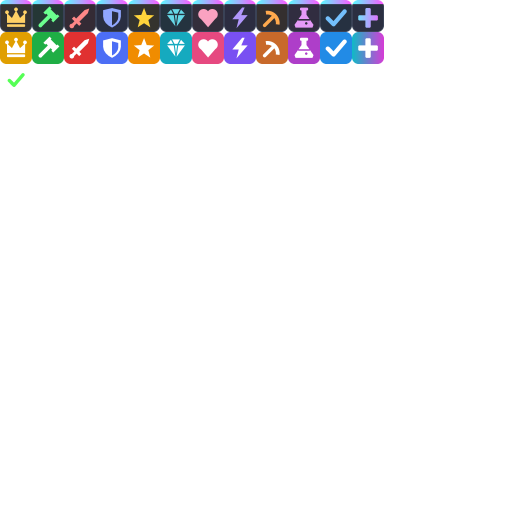
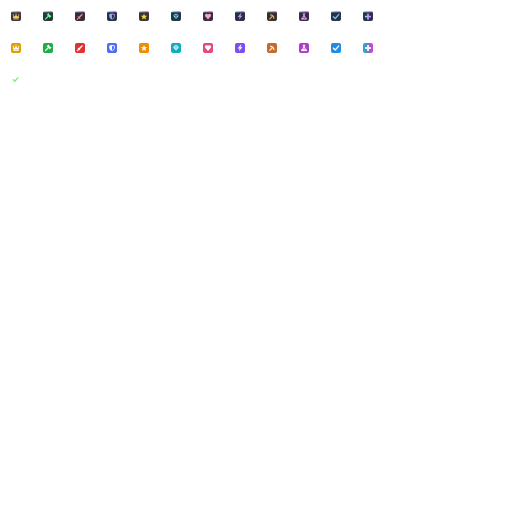
2.11.5 - badges and ticks drawn at text size, template cards fixed
The user's first in-game look at 2.11.4 showed every badge four chat
lines tall: the game draws a font-page picture at one of its pixels per
picture pixel, centred on the line, and never shrinks it. Badges are now
10 pixels centred in their 32-pixel cells, like the game's own icons, and
the tick about as tall as a capital. Card names end in a reset, because a
colour code doesn't end bold in Bedrock, and Owner's warning is short
enough to stay in its card. The badge preview now draws at real size.

Changed region(s): [[0.0, 0.0, 0.75, 0.1562], [0.0, 0.1562, 0.0312, 0.1875]]

diff --git a/tests/badges.test.js b/tests/badges.test.js
@@ -265,6 +265,31 @@ console.log("\n— the tick for template cards —")
     check("and is drawn", ink, true)
 }
 
+console.log("\n— drawn at text size —")
+{
+    // 2.11.5, from the user's screenshots: the game draws a glyph at one of its
+    // pixels per picture pixel, centred on the line, and never shrinks it. The
+    // 2.11.3 badges filled their 32-pixel cells and drew four lines tall. The
+    // game's own icons (page E0) are 9 to 23 pixels, centred in their cells.
+    const page = readAlpha(PAGE_FILE)
+    const drawn = (col, row) => {
+        let x0 = 99, y0 = 99, x1 = -1, y1 = -1
+        for (let y = 0; y < 32; y++) for (let x = 0; x < 32; x++) {
+            if (page.alpha(col * 32 + x, row * 32 + y) > 0) { x0 = Math.min(x0, x); y0 = Math.min(y0, y); x1 = Math.max(x1, x); y1 = Math.max(y1, y) }
+        }
+        return { w: x1 - x0 + 1, h: y1 - y0 + 1, cx: (x0 + x1 + 1) / 2, cy: (y0 + y1 + 1) / 2 }
+    }
+    const badges = BADGES.flatMap((b, i) => [drawn(i, 0), drawn(i, 1)])
+    check("every badge is at most 10 pixels each way, one chat line tall",
+        badges.filter(d => d.w > 10 || d.h > 10).length, 0)
+    check("and at least 8, so it can still be read", badges.filter(d => d.w < 8 || d.h < 8).length, 0)
+    check("each sits in the middle of its cell, as the game centres it on the line",
+        badges.filter(d => Math.abs(d.cx - 16) > 1 || Math.abs(d.cy - 16) > 1).length, 0)
+    const tick = drawn(0, 2)
+    check("the tick is no taller than a capital letter (7 pixels)", tick.h <= 7, true)
+    check("and in the middle too", Math.abs(tick.cy - 16) <= 1, true)
+}
+
 console.log("\n— the Badges page —")
 {
     const names = GROUPS.find(g => g.id === "names")

diff --git a/tests/ranksui.test.js b/tests/ranksui.test.js
@@ -168,6 +168,21 @@ console.log("\n— a staff rank from a template —")
     __ui.answers.push(name("§4Second", TYPE.staff), press(3), submit(above("coowner")), CREATE)
     await createRankScreen(boss, () => {})
     check("the Owner template gives everything", getRank("second")?.perms, ["*"])
+
+    // 2.11.5, from the user's screenshot of the cards in game: bold carried
+    // from each card's name into every line under it, and Owner's words ran
+    // out of the bottom of its card.
+    const BETA_ITEM = { id: "adminplus:channel_beta" }
+    __test.itemTypes.push(BETA_ITEM)
+    __ui.answers.length = 0
+    const at = __ui.shown.length
+    __ui.answers.push(name("§9Look", TYPE.staff))
+    await createRankScreen(boss, () => {})
+    const cards = partsOf(__ui.shown[at + 1], "button").slice(0, 4)
+    check("in Beta each card's name closes its bold, so the lines under it stay plain",
+        cards.map(c => c.split("\n")[0].endsWith("§r")), [true, true, true, true])
+    check("and Owner's warning is the short one", cards[3]?.includes("Only for someone you fully trust."), true)
+    __test.itemTypes.splice(__test.itemTypes.indexOf(BETA_ITEM), 1)
     check("and the crown", getRank("second")?.meta?.badge, "crown")
     check("and it can go just under the maker's own rank", order().indexOf("second"), order().indexOf("owner") + 1)
 }

diff --git a/tests/look.test.js b/tests/look.test.js
@@ -229,6 +229,8 @@ console.log("\n— each card shows once, above the rows —")
     check("Select sits at the bottom on Admin+'s gradient", [parts.select.anchor_to, chip[0].texture, chip[0].keep_ratio, chip[1].text],
         ["bottom_middle", "textures/ui/adminplus/gradient", false, "Select"])
     check("every template's strip is in the pack", ["mod", "admin", "manager", "owner"].map(cardStripe).filter(t => !textureExists(t)), [])
+    // 2.11.5: the Owner card's words ran out of the bottom of a 160-tall card.
+    check("a card is tall enough for the longest template, Owner", cardButton.size[1] >= 176, true)
     check("CARD prints nothing and restyles nothing", /^(?:§[0-9a-jmnpqstuv])+$/.test(CARD), true)
     check("lifting leaves it alone", lift(CARD), CARD)
     check("it spells no other marker",

diff --git a/Admin+ BP/scripts/features/ranksUI.js b/Admin+ BP/scripts/features/ranksUI.js
@@ -555,8 +555,10 @@ async function nameStep(player, draft, back) {
 /** A template's card: badge and name, its line, a tick per point, and Owner's warning. */
 function templateCard(template) {
     const badge = badgesOn() ? `${badgeChar(template.badge, badgeStyle())} ` : ""
+    // §r after the name: in game, bold carried past a colour code into every
+    // line under it (2.11.4 screenshot, 2026-11-13).
     const lines = [
-        `${badge}§f§l${template.name}`,
+        `${badge}§f§l${template.name}§r`,
         `§7${template.line}`,
         ...template.points.map(point => `${TICK} §f${point}`),
         template.warn ? `§6${template.warn}` : ""

diff --git a/Admin+ BP/scripts/core/rankTemplates.js b/Admin+ BP/scripts/core/rankTemplates.js
@@ -59,7 +59,8 @@ export const STAFF_TEMPLATES = Object.freeze([
         key: "owner", name: "Owner", colour: "§4", badge: "crown",
         line: "On par with the owner.",
         points: ["Every permission", "Any rank, to anyone", "Every setting"],
-        warn: "As strong as the owner. Only for someone you trust completely.",
+        // Short enough to stay inside its card (2.11.4 ran out of it in game).
+        warn: "Only for someone you fully trust.",
         perms: ["*"]
     }
 ].map(template => Object.freeze({ ...template, points: Object.freeze([...template.points]), perms: Object.freeze([...new Set(template.perms)]) })))

diff --git a/Admin+ BP/scripts/config.js b/Admin+ BP/scripts/config.js
@@ -1,7 +1,7 @@
 // Admin+ — single tunable config. Everything an operator would want to change
 // lives here; runtime state (ranks, warps, bans) lives in world storage.
 
-export const ADMINPLUS_VERSION = "2.11.4"
+export const ADMINPLUS_VERSION = "2.11.5"
 
 export const CONFIG = {
     // Command namespace. Registration is always namespaced (/<ns>:<name>) —

diff --git a/tools/genbadges.py b/tools/genbadges.py
@@ -19,9 +19,16 @@ with the symbol in white).
 Minecraft draws pictures inside text from "glyph pages": a 16 by 16 grid, one
 picture per character, in a resource pack's font folder. Admin+ uses page EA
 (characters U+EA00 to U+EAFF), which neither the game (D0-D7, E0, E1, F9-FF)
-nor any pack installed on this PC (E0-E4, E7-E9, F1, F9) uses. Each picture is
-32 pixels, the size the game's own smooth icons use (its page E0), and still
-draws one letter tall. Row 0 is the Admin+ style, row 1 the classic, one
+nor any pack installed on this PC (E0-E4, E7-E9, F1, F9) uses. The page is a
+16 by 16 grid of 32-pixel cells, like the game's own icon page E0.
+
+SIZE (2.11.5, from the user's in-game screenshots): the game draws a glyph at
+one of its pixels per picture pixel, centred on the line, and never shrinks
+it. The 2.11.3 badges filled their whole 32-pixel cell, so they drew four
+lines tall and covered the chat above and below. The game's own icons on E0
+are 9 to 23 pixels, centred in their cells, and its letters are 7 pixels to
+the top of a capital. So a badge is now BADGE_PX (10) square, about one and a
+half capitals, centred in its cell, and the tick is drawn in MARK_PX (9). Row 0 is the Admin+ style, row 1 the classic, one
 column per badge in the order of BADGES. core/badges.js lists them in the same
 order, and tests/badges.test.js checks. Row 2 holds plain marks for text with
 no tile behind them: the green tick on the template cards (2.11.4) at U+EA20.
@@ -34,7 +41,9 @@ from PIL import Image, ImageDraw
 
 ROOT = pathlib.Path(__file__).resolve().parent.parent
 OUT = ROOT / "Admin+ RP" / "font" / "glyph_EA.png"
-CELL = 32      # pixels per picture on the page
+CELL = 32      # pixels per cell on the page
+BADGE_PX = 10  # a badge's drawn size: the game shows one picture pixel per font pixel
+MARK_PX = 9    # the tick: its drawn part is about as tall as a capital letter
 SS = 8         # drawn this many times larger, then shrunk
 BOX = 22       # a symbol is designed in a 22 by 22 box
 
@@ -239,8 +248,12 @@ def gradient(size, a, b):
     return img
 
 
-def shrink(img):
-    return img.resize((CELL, CELL), Image.BOX)
+def shrink(img, size=BADGE_PX):
+    """The big drawing at its final size, centred in a cell like the game's icons."""
+    small = img.resize((size, size), Image.BOX)
+    out = Image.new("RGBA", (CELL, CELL), (0, 0, 0, 0))
+    out.alpha_composite(small, ((CELL - size) // 2, (CELL - size) // 2))
+    return out
 
 
 def admin_style(name, colour):
@@ -287,10 +300,7 @@ def mark_style(name, colour):
     big = (CELL * SS, CELL * SS)
     base = Image.new("RGBA", big, (0, 0, 0, 0))
     base.paste(Image.new("RGBA", big, rgb(colour)), (0, 0), symbol_mask(name, (CELL - BOX) / 2))
-    small = base.resize((CELL - 6, CELL - 6), Image.BOX)
-    out = Image.new("RGBA", (CELL, CELL), (0, 0, 0, 0))
-    out.alpha_composite(small, (3, 3))
-    return out
+    return shrink(base, MARK_PX)
 
 
 def build():
@@ -305,17 +315,33 @@ def build():
     return sheet
 
 
-def preview(sheet, font_path, path):
-    """The badges beside chat text drawn with the game's own font (never shipped).
+def game_font():
+    """The game's own pixel font, read out of its install (tools/vanillaui.py)."""
+    import io
+    sys.path.insert(0, str(ROOT / "tools"))
+    import vanillaui
+    archive = vanillaui.GAME.parent / "font.brarchive"
+    for name, body in vanillaui.entries(archive.read_bytes()):
+        if name == "default8.png":
+            data = body if isinstance(body, bytes) else body.encode("latin1")
+            return Image.open(io.BytesIO(data)).convert("RGBA")
+    raise SystemExit(f"default8.png not found in {archive}")
 
-    Text is drawn at 3 screen pixels per font pixel, as at GUI scale 3, where a
-    badge is 24 pixels: the game shrinks the 32-pixel picture to fit a letter.
+
+def preview(sheet, path, scale=3):
+    """Badges beside chat text at the game's real size (never shipped).
+
+    One font pixel and one picture pixel are both `scale` screen pixels, as at
+    GUI scale 3, and a badge is centred on its line, as the game draws it.
     """
-    font = Image.open(font_path).convert("RGBA")
+    font = game_font()
     mc = {"0": "000000", "4": "AA0000", "5": "AA00AA", "6": "FFAA00", "7": "AAAAAA", "8": "555555", "a": "55FF55",
           "b": "55FFFF", "c": "FF5555", "d": "FF55FF", "e": "FFFF55", "f": "FFFFFF", "9": "5555FF", "2": "00AA00"}
-    scale = 3
     keys = [b[0] for b in BADGES]
+    # default8.png holds 8 by 12 cells (the game's default8.json: height 12).
+    hx, hy = 8 * (ord("H") % 16), 12 * (ord("H") // 16)
+    cap = font.crop((hx, hy, hx + 8, hy + 12)).getbbox()
+    middle = (cap[1] + cap[3]) / 2   # the middle of a capital, in font pixels from the cell top
 
     def glyph(ch):
         code = ord(ch)
@@ -339,10 +365,15 @@ def preview(sheet, font_path, path):
                 continue
             if ch == "{":
                 end = s.index("}", i)
-                idx = keys.index(s[i + 1:end])
-                cell = sheet.crop((idx * CELL, row * CELL, idx * CELL + CELL, row * CELL + CELL))
-                img.alpha_composite(cell.resize((8 * scale, 8 * scale), Image.LANCZOS), (x, y + 2 * scale))
-                x += 9 * scale
+                name = s[i + 1:end]
+                col, line = (0, 2) if name == "tick" else (keys.index(name), row)
+                cell = sheet.crop((col * CELL, line * CELL, col * CELL + CELL, line * CELL + CELL))
+                box = cell.getbbox()
+                part = cell.crop((box[0], 0, box[2], CELL))
+                big = part.resize((part.width * scale, CELL * scale), Image.NEAREST)
+                # Centred on the line, as the game draws it: on the capitals' middle.
+                img.alpha_composite(big, (x, y + round(middle * scale) - CELL * scale // 2))
+                x += (part.width + 1) * scale
                 i = end + 1
                 continue
             cell, width = glyph(ch)
@@ -356,22 +387,18 @@ def preview(sheet, font_path, path):
             x += width * scale
             i += 1
 
-    width = 1500
-    img = Image.new("RGBA", (width, 700), rgb("2f4a22"))
+    line = 12 * scale
+    img = Image.new("RGBA", (1100, 520), rgb("2f4a22"))
     for row, title in ((0, "Admin+ style"), (1, "Classic style")):
-        top = 14 + row * 340
-        img.alpha_composite(Image.new("RGBA", (920, 170), (0, 0, 0, 105)), (14, top + 36))
-        text(img, 14, top, f"§f{title}", row)
-        text(img, 24, top + 44, "§7General §8| {crown} §8[§4Owner§8] §dMidnight§f: ay ts name", row)
-        text(img, 24, top + 84, "§7General §8| {hammer} §8[§aMod§8] §fWafflehouse9549§f: dihi", row)
-        text(img, 24, top + 124, "§7General §8| {shield} §8[§6Admin§8] §fSteve§f: hi", row)
-        img.alpha_composite(Image.new("RGBA", (530, 170), rgb("12141b")), (950, top + 36))
-        for n, (badge, name) in enumerate([("crown", "§71. §4Owner"), ("shield", "§72. §6Admin"), ("hammer", "§73. §aMod")]):
-            img.alpha_composite(Image.new("RGBA", (510, 44), rgb("1d212c")), (960, top + 44 + n * 52))
-            text(img, 972, top + 48 + n * 52, f"{{{badge}}} {name}", row)
-        for i in range(len(BADGES)):
-            cell = sheet.crop((i * CELL, row * CELL, i * CELL + CELL, row * CELL + CELL))
-            img.alpha_composite(cell.resize((96, 96), Image.NEAREST), (24 + i * 120, top + 222))
+        top = 16 + row * 250
+        text(img, 16, top, f"§f{title}, at the game's real size", row)
+        img.alpha_composite(Image.new("RGBA", (1060, 5 * line + 12), (0, 0, 0, 105)), (16, top + 36))
+        y = top + 44
+        text(img, 26, y, "§7General §8| {crown} §8| §8[§4§lOwner§r§8] §dMidnight§f: ay ts name thingy", row); y += line
+        text(img, 26, y, "§8| {hammer} §8| §8[§aMod§8] §fWafflehouse9549 §8» §fdihi", row); y += line
+        text(img, 26, y, "§7General §8| {shield} §8| §8[§6Admin§8] §fSteve§f: hi", row); y += line
+        text(img, 26, y, "§7General §8| §8[§bMember§8] §fAlex§f: no badge, no bars", row); y += line
+        text(img, 26, y, "{tick} §fWarn, mute, kick   {tick} §fFreeze and vanish", row)
     img.save(path)
     print("preview:", path)
 
@@ -380,9 +407,5 @@ if __name__ == "__main__":
     sheet = build()
     print(f"{len(BADGES)} badges in two styles -> {OUT}")
     if "--preview" in sys.argv:
-        rest = sys.argv[sys.argv.index("--preview") + 1:]
-        fonts = [a for a in rest if a.endswith("default8.png")]
-        outs = [a for a in rest if a.endswith(".png") and not a.endswith("default8.png")]
-        if not fonts:
-            raise SystemExit("--preview needs the path to the game's default8.png (see tools/vanillaui.py)")
-        preview(sheet, fonts[0], outs[0] if outs else str(ROOT / "notes" / "badges-preview.png"))
+        rest = [a for a in sys.argv[sys.argv.index("--preview") + 1:] if a.endswith(".png") and not a.endswith("default8.png")]
+        preview(sheet, rest[0] if rest else str(ROOT / "notes" / "badges-preview.png"))

diff --git a/CHANGELOG.md b/CHANGELOG.md
@@ -56,6 +56,44 @@ What that body of work amounts to:
 The per-version detail for all of it is below, unchanged.
 
 ---
+## 2.11.5 — 2026-11-13
+
+**Badges and ticks drawn at text size, and the template cards fixed, after the
+user's first look at 2.11.4 in game.**
+
+### Badges
+1. **They drew four lines tall.** The user's screenshots showed every badge
+   covering the chat lines above and below it, and the template cards' titles.
+   The game draws a picture from a font page at one of its pixels per picture
+   pixel, centred on the line, and never shrinks it. The badges filled their
+   whole 32-pixel cell, so they came out 32 pixels tall beside 7-pixel
+   capitals. 2.11.3 had assumed the game shrinks them to one letter; it
+   doesn't.
+2. **Now 10 pixels, centred in the cell**, like the game's own icons (page E0
+   keeps 9 to 23 pixel icons centred in 32-pixel cells). One chat line tall.
+3. **The tick on the template cards is about as tall as a capital** (7 by 5
+   pixels) instead of twice the text.
+4. `tools/genbadges.py --preview` now draws badges beside the game's own
+   letters at their real size, reading the font out of the game's install. The
+   old preview shrank the badges, which is how the size went unnoticed.
+
+### Template cards
+1. **Bold no longer runs down the whole card.** In game a colour code doesn't
+   end bold, so each card's name made every line under it bold. The name now
+   ends in `§r`.
+2. **Owner's warning stays inside its card**: "Only for someone you fully
+   trust." Cards are 176 tall instead of 160.
+
+### Seen in game (2.11.4, 2026-11-13)
+1. The bars work: "| (badge) | [Admin+ Creator]" in Players and "General |
+   (badge) |" in chat.
+2. The four template cards stand side by side.
+
+### Checked
+`tests/badges.test.js` (every badge at most 10 pixels and centred, the tick
+no taller than a capital), `tests/look.test.js` (card height),
+`tests/ranksui.test.js` (card names close their bold, Owner's short warning).
+
 ## 2.11.4 — 2026-11-13
 
 **+ New rank in short steps, template cards for staff ranks, and one badge

diff --git a/CLAUDE.md b/CLAUDE.md
@@ -103,6 +103,15 @@ look taught (2.11.0, 2026-11-13, the user's screenshot).**
 4. **The content log shows no menu errors at all.** A broken menu is silent;
    only a screenshot tells.
 
+**Font-page pictures draw at one game pixel per picture pixel, centred on
+the line, and are never shrunk (2.11.4, the user's screenshots).** A badge
+that filled its 32-pixel cell drew four chat lines tall. The game's own icons
+(`glyph_E0`, a 512 sheet) are 9 to 23 pixels centred in 32-pixel cells, and
+its letters are 8 by 12 cells with 7-pixel capitals (`default8.json`). Badges
+are `BADGE_PX` (10) in `tools/genbadges.py`; `tests/badges.test.js` holds it.
+`--preview` draws them at real size. **And a colour code does NOT end bold in
+Bedrock:** `§l` runs on, across lines, until `§r`.
+
 **Subpacks: the game starts on the LAST subpack when they tie.** 2.10.1 put
 Default first on a higher `memory_tier` and the user's world started on Beta
 (2026-11-13). The game now ranks subpacks by `memory_performance_tier`, which
@@ -435,8 +444,10 @@ field, or (on a game that drew no labels) one per input.
 - **Rank badges are Beta (2.11.2, the user's idea, 2026-11-13: "not their
   way, but our way. In our theme and style ... Especially to the buttons
   instead of putting staff").** A badge is a character on our glyph page
-  `Admin+ RP/font/glyph_EA.png` (U+EA00 on; 32-pixel pictures; row 0 the
-  Admin+ style, row 1 the classic), drawn by `tools/genbadges.py` from SHAPES,
+  `Admin+ RP/font/glyph_EA.png` (U+EA00 on; 32-pixel cells holding a
+  10-pixel badge in the middle, see the font-page rule above; row 0 the
+  Admin+ style, row 1 the classic, row 2 the tick), drawn by
+  `tools/genbadges.py` from SHAPES,
   flat and bold like Twitch's and Discord's (2.11.3: pixel-by-pixel art was
   "sloppy"; draw at 8x and shrink). `core/badges.js` lists them
   in the SAME order; never reorder one without the other. The user liked
